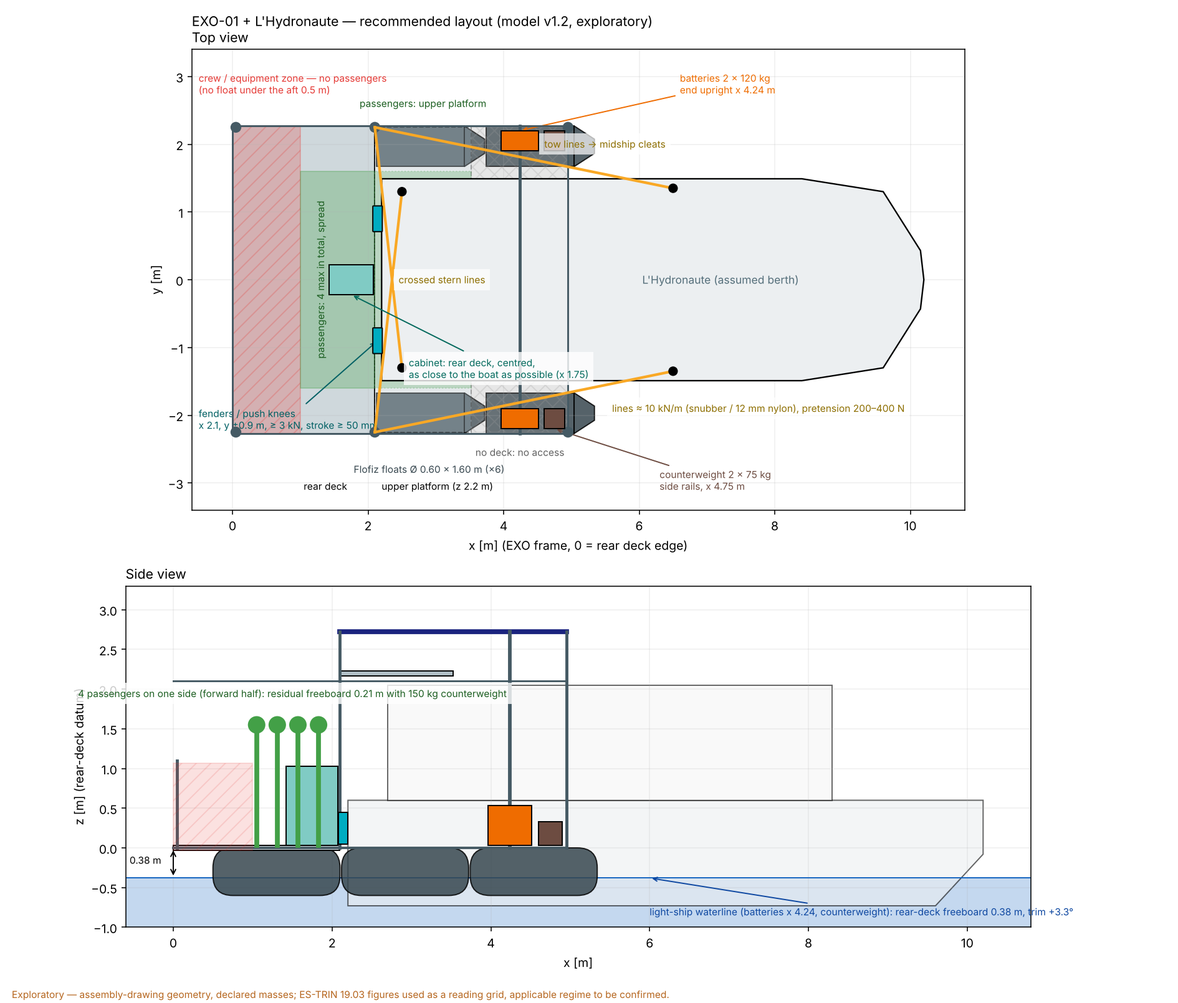
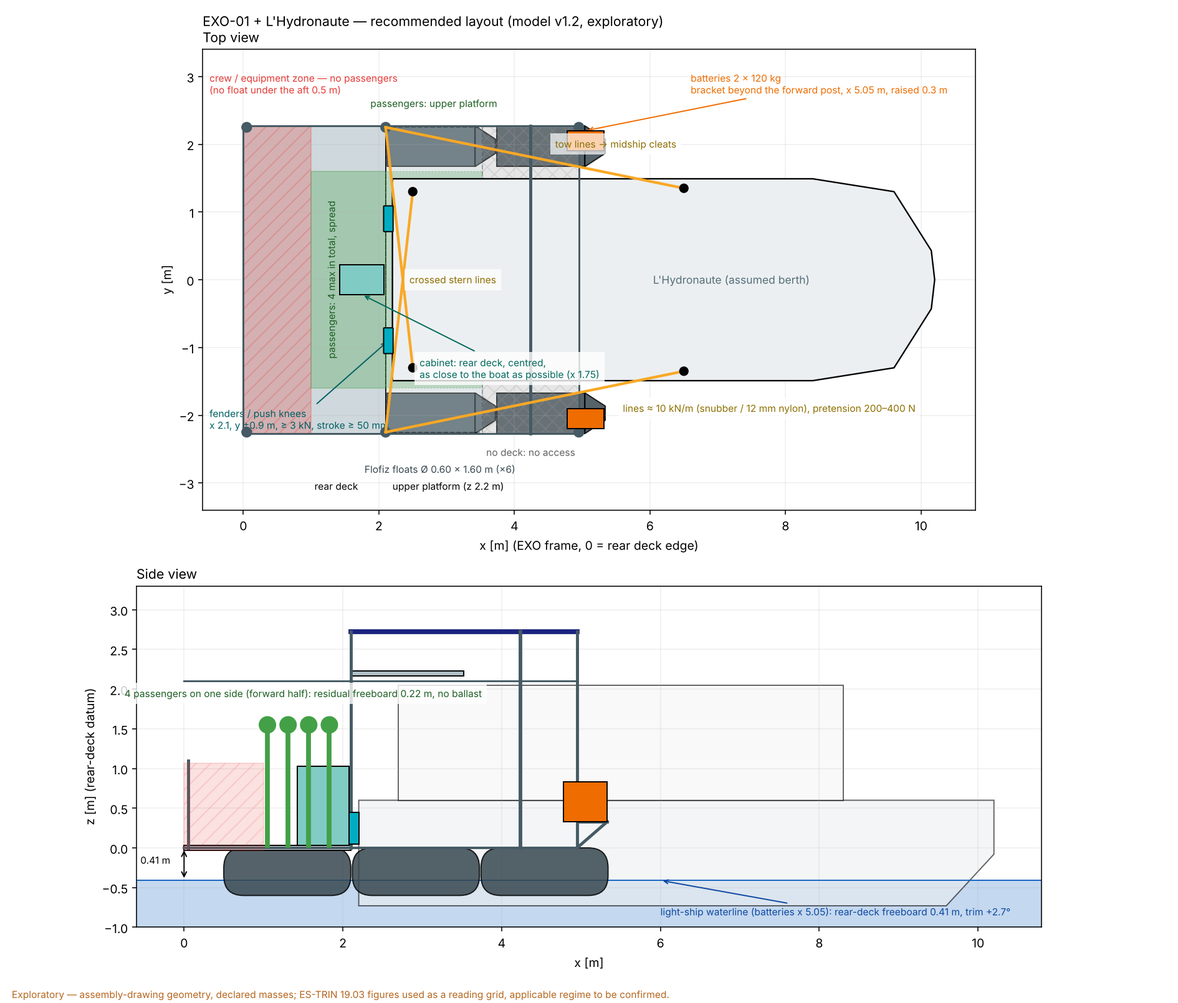
Recommended layout: batteries on a bracket beyond the forward post (x 5.05, z 0.8), no ballast; 4 passengers >= 0.219 m
Claude-Session: https://claude.ai/code/session_01Dca2tFRhLZ7fJ291hADNnP

diff --git a/docs/website/preview.html b/docs/website/preview.html
@@ -82,7 +82,7 @@ figcaption { font-size: 13px; color: var(--muted); margin-top: 8px; max-width: 6
 <h3>5. Propulsion : ordre de grandeur seulement</h3>
 <p>À 100 % des deux pods, l'ensemble EXO-01 + L'Hydronaute atteindrait ≈ 2,8 m/s (10 km/h), avec 870 N transmis au bateau par les aussières. Ces vitesses sont des <strong>bornes supérieures</strong> : le modèle suppose la poussée au point fixe constante avec la vitesse, ce qui est faux pour un propulseur à hélice ; la courbe poussée–vitesse des pods n'est pas connue.</p>
 <h2>Implantation recommandée (v1.2) : aussières, défenses, zones passagers</h2>
-<figure><img alt="Implantation recommandée" src="img/14_layout_fr.webp" loading="lazy"><figcaption>Vue de dessus et de côté : défenses de poupe, aussières croisées et de remorquage, zone équipage à l'arrière, zone passagers, armoire centrée au bord avant du pont arrière, batteries au montant d'extrémité, contrepoids. Géométrie du plan d'assemblage, position d'accostage supposée.</figcaption></figure>
+<figure><img alt="Implantation recommandée" src="img/14_layout_fr.webp" loading="lazy"><figcaption>Vue de dessus et de côté : défenses de poupe, aussières croisées et de remorquage, zone équipage à l'arrière, zone passagers, armoire centrée au bord avant du pont arrière, batteries sur console à l'avant. Géométrie du plan d'assemblage, position d'accostage supposée.</figcaption></figure>
 <p>L'étude d'amarrage (121 configurations : 6 arrangements × 4 raideurs × 5 prétensions + un cas rigide ; amarré, poussée 100 %, remorquage 100 % ; trois houles régulières, calcul linéaire puis domaine temporel) dit, dans ses hypothèses :</p>
 <ul>
 <li><strong>La poussée passe en compression.</strong> Deux défenses / push knees au bord du pont arrière (x 2,1 m, y ±0,9 m, hauteur du tableau) ferment la boucle poussée–remorquage quelle que soit la corde, avec 1–20 mm de course ; des aussières seules (diagonales) le font aussi, mais seulement à k ≥ 10 kN/m et avec 20–45 mm de glissement du bateau dans un espace de 60 mm. Charge statique par défense à pleine poussée : 0,3–0,6 kN.</li>
@@ -90,7 +90,7 @@ figcaption { font-size: 13px; color: var(--muted); margin-top: 8px; max-width: 6
 <li><strong>Raideur plutôt qu'« amortisseur » : ce que l'étude montre.</strong> Les éléments sont des ressorts sans amortissement ; les pics de reprise croissent avec la raideur de la corde (2 kN/m : 0,5–1,3 kN ; 10 kN/m : 0,6–1,5 kN ; 50 kN/m : 1,5–3 kN ; 200 kN/m : 3–5 kN dans la même houle), mais des cordes très souples laissent le bateau prendre de l'élan contre les défenses (2–5 kN). Direction : cordes ≈ 10 kN/m, défenses fermes ≈ 50 kN/m, prétension 200–400 N. Le choix d'un amortisseur réel demande un modèle avec amortissement, course et réaction maximale — étape suivante.</li>
 <li><strong>Dimensionnement indicatif</strong> : cordes 12 mm polyester/nylon avec snubbers (charge de travail 1–1,5 kN, pics 2–4,5 kN en 0,5 m de houle), taquets et montants ≥ 5 kN, défenses ≥ 3 kN avec ≥ 50 mm de course.</li>
 </ul>
-<p><strong>Zones passagers et capacité (EXO-01 seul, 75 kg par personne, lecture ES-TRIN 19.03 : gîte + vent ≤ 12°, franc-bord résiduel ≥ 0,20 m).</strong> La gîte n'est jamais limitante (8 personnes sur un bord : 4° ; vent 0,25 kN/m² sur 6 m² supposés : 0,7°). C'est le franc-bord du pont arrière qui limite : chaque passager enfonce la plateforme d'≈ 15 mm, plus l'assiette. Avec les batteries du plan, aucun passager ne satisfait le critère ; batteries avancées, 1–2 ; avec l'implantation ci-dessus — <strong>arrière du pont fermé aux passagers (pas de flotteur sous les 0,5 m arrière), batteries au montant d'extrémité, armoire sur le pont arrière, centrée et au plus près du bateau (x 1,75 m), contrepoids 2 × 75 kg à x 4,75 m sur les longerons</strong> — <strong>4 passagers</strong> n'importe où dans les zones autorisées gardent ≥ 0,214 m (6 répartis sur les deux ponts : 0,245 m) ; 150 kg de lest, c'est le poids de deux passagers : plus de flottabilité arrière ferait mieux. Contrepartie : +3,3° de piqué à vide et les flotteurs avant deviennent la limite si 4 personnes se mettent d'un même bord sur la plateforme haute (0,17 m). Sous le franc-bord minimal de 0,30 m de l'art. 19.04, aucune configuration ne dépasse 1 passager : le régime applicable (bateau à passagers, engin flottant, autre) change l'évaluation et reste à établir avec le service instructeur. Rien de tout cela ne remplace la pesée, l'essai de stabilité et le relevé des flotteurs.</p>
+<p><strong>Zones passagers et capacité (EXO-01 seul, 75 kg par personne, lecture ES-TRIN 19.03 : gîte + vent ≤ 12°, franc-bord résiduel ≥ 0,20 m).</strong> La gîte n'est jamais limitante (8 personnes sur un bord : 4° ; vent 0,25 kN/m² sur 6 m² supposés : 0,7°). C'est le franc-bord du pont arrière qui limite : chaque passager enfonce la plateforme d'≈ 15 mm, plus l'assiette. Avec les batteries du plan, aucun passager ne satisfait le critère ; batteries avancées, 1–2 ; avec l'implantation ci-dessus — <strong>arrière du pont fermé aux passagers (pas de flotteur sous les 0,5 m arrière), batteries sur une console au-delà du montant avant (x 5,05 m, surélevées de 0,3 m), armoire sur le pont arrière, centrée et au plus près du bateau (x 1,75 m), sans lest</strong> — <strong>4 passagers</strong> n'importe où dans les zones autorisées gardent ≥ 0,22 m (6 répartis sur les deux ponts : 0,24 m). Contrepartie : +2,7° de piqué à vide ; les flotteurs avant restent à ≥ 0,20 m même avec 4 personnes d'un même bord sur la plateforme haute. À vérifier sur la structure : la console porte 120 kg en porte-à-faux de chaque côté au-delà du dernier montant, dans la zone où arrivent la vague d'étrave et les embruns (coffres étanches), avec ≈ 4 m de câble 48 V jusqu'à l'armoire. Sous le franc-bord minimal de 0,30 m de l'art. 19.04, aucune configuration ne dépasse 1 passager : le régime applicable (bateau à passagers, engin flottant, autre) change l'évaluation et reste à établir avec le service instructeur. Rien de tout cela ne remplace la pesée, l'essai de stabilité et le relevé des flotteurs.</p>
 <h2>Ce que le modèle ne dit pas</h2>
 <ul>
 <li><strong>Les masses et leurs positions sont déclarées, pas pesées.</strong> Toute l'assiette repose sur le décalage de 0,6 m entre centre de masse et centre de flottabilité.</li>
@@ -156,7 +156,7 @@ figcaption { font-size: 13px; color: var(--muted); margin-top: 8px; max-width: 6
 <h3>5. Propulsion: order of magnitude only</h3>
 <p>At 100 % of both pods, EXO-01 + L'Hydronaute would reach ≈ 2.8 m/s (10 km/h), with 870 N carried to the boat through the lines. These speeds are <strong>upper bounds</strong>: the model assumes the bollard thrust stays constant with speed, which is false for a propeller; the pods' thrust–speed curve is not known.</p>
 <h2>Recommended layout (v1.2): lines, fenders, passenger zones</h2>
-<figure><img alt="Recommended layout" src="img/14_layout_en.webp" loading="lazy"><figcaption>Top and side view: stern fenders, crossed and tow lines, crew zone aft, passenger zone, cabinet centred at the forward edge of the rear deck, batteries at the end upright, counterweight. Assembly-drawing geometry, assumed berth.</figcaption></figure>
+<figure><img alt="Recommended layout" src="img/14_layout_en.webp" loading="lazy"><figcaption>Top and side view: stern fenders, crossed and tow lines, crew zone aft, passenger zone, cabinet centred at the forward edge of the rear deck, batteries on a forward bracket. Assembly-drawing geometry, assumed berth.</figcaption></figure>
 <p>The mooring study (121 configurations: 6 arrangements × 4 stiffnesses × 5 pretensions + one rigid case; moored, push 100 %, tow 100 %; three regular waves, linear then time domain) says, within its assumptions:</p>
 <ul>
 <li><strong>Push goes through compression.</strong> Two fenders / push knees at the rear-deck edge (x 2.1 m, y ±0.9 m, transom height) close the push–tow loop whatever the rope, with 1–20 mm of travel; lines alone (diagonals) do it too, but only at k ≥ 10 kN/m and with 20–45 mm of boat travel into a 60 mm gap. Static load per fender at full thrust: 0.3–0.6 kN.</li>
@@ -164,7 +164,7 @@ figcaption { font-size: 13px; color: var(--muted); margin-top: 8px; max-width: 6
 <li><strong>Compliance rather than "shock absorbers": what the study shows.</strong> The elements are undamped springs; snatch peaks grow with rope stiffness (2 kN/m: 0.5–1.3 kN; 10 kN/m: 0.6–1.5 kN; 50 kN/m: 1.5–3 kN; 200 kN/m: 3–5 kN in the same waves), but very soft lines let the boat gather speed into the fenders (2–5 kN). Direction: lines ≈ 10 kN/m, firm fenders ≈ 50 kN/m, pretension 200–400 N. Choosing an actual damper needs a model with damping, stroke and peak reaction — next step.</li>
 <li><strong>Indicative sizing</strong>: 12 mm polyester/nylon lines with snubbers (working load 1–1.5 kN, peaks 2–4.5 kN in 0.5 m waves), cleats and uprights ≥ 5 kN, fenders ≥ 3 kN with ≥ 50 mm stroke.</li>
 </ul>
-<p><strong>Passenger zones and capacity (EXO-01 alone, 75 kg per person, ES-TRIN 19.03 reading: heel + wind ≤ 12°, residual freeboard ≥ 0.20 m).</strong> Heel never limits (8 people on one side: 4°; wind 0.25 kN/m² on an assumed 6 m²: 0.7°). The rear-deck freeboard does: each passenger sinks the platform ≈ 15 mm, plus the trim. With the drawing's batteries no passenger meets the criterion; batteries forward, 1–2; with the layout above — <strong>aft of the rear deck closed to passengers (no float under the aft 0.5 m), batteries at the end upright, cabinet on the rear deck, centred and as close to the boat as possible (x 1.75 m), 2 × 75 kg counterweight at x 4.75 m on the side rails</strong> — <strong>4 passengers</strong> anywhere in the allowed zones keep ≥ 0.214 m (6 spread over both decks: 0.245 m); 150 kg of ballast is the weight of two passengers — more aft buoyancy would do better. The price: +3.3° bow-down trim light, and the forward floats become the limit if 4 people crowd one side of the upper platform (0.17 m). Under the 0.30 m minimum freeboard of art. 19.04 no configuration exceeds 1 passenger: the applicable regime (passenger vessel, floating equipment, other) changes the assessment and has to be established with the service instructeur. None of this replaces the weighing, the inclining test and the float survey.</p>
+<p><strong>Passenger zones and capacity (EXO-01 alone, 75 kg per person, ES-TRIN 19.03 reading: heel + wind ≤ 12°, residual freeboard ≥ 0.20 m).</strong> Heel never limits (8 people on one side: 4°; wind 0.25 kN/m² on an assumed 6 m²: 0.7°). The rear-deck freeboard does: each passenger sinks the platform ≈ 15 mm, plus the trim. With the drawing's batteries no passenger meets the criterion; batteries forward, 1–2; with the layout above — <strong>aft of the rear deck closed to passengers (no float under the aft 0.5 m), batteries on a bracket beyond the forward post (x 5.05 m, raised 0.3 m), cabinet on the rear deck, centred and as close to the boat as possible (x 1.75 m), no ballast</strong> — <strong>4 passengers</strong> anywhere in the allowed zones keep ≥ 0.22 m (6 spread over both decks: 0.24 m). The price: +2.7° bow-down trim light; the forward floats stay ≥ 0.20 m even with 4 people on one side of the upper platform. To check on the structure: the bracket carries 120 kg cantilevered each side beyond the last upright, where the bow wave and spray arrive first (watertight boxes), with ≈ 4 m of 48 V cable to the cabinet. Under the 0.30 m minimum freeboard of art. 19.04 no configuration exceeds 1 passenger: the applicable regime (passenger vessel, floating equipment, other) changes the assessment and has to be established with the service instructeur. None of this replaces the weighing, the inclining test and the float survey.</p>
 <h2>What the model does not say</h2>
 <ul>
 <li><strong>Masses and positions are declared, not weighed.</strong> The whole trim story rests on the 0.6 m offset between centre of mass and centre of buoyancy.</li>

diff --git a/scripts/draw_layout.py b/scripts/draw_layout.py
@@ -18,16 +18,16 @@ OUT = ROOT / "docs" / "website" / "img"
 T = {
     "fr": dict(title="EXO-01 + L'Hydronaute — implantation recommandée (modèle v1.2, exploratoire)", top="Vue de dessus", side="Vue de côté",
                deck="pont arrière", upper="plateforme haute (z 2,2 m)", nodeck="pas de pont : accès interdit", crew="zone équipage / matériel — pas de passagers\n(pas de flotteur sous les 0,5 m arrière)",
-               pax_rear="passagers : 4 max au total, répartis", pax_upper="passagers : plateforme haute", batt="batteries 2 × 120 kg\nmontant d'extrémité x 4,24 m", cw="contrepoids 2 × 75 kg\nlongerons, x 4,75 m",
+               pax_rear="passagers : 4 max au total, répartis", pax_upper="passagers : plateforme haute", batt="batteries 2 × 120 kg\nconsole au-delà du montant avant, x 5,05 m, +0,3 m", cw="",
                cab="armoire : pont arrière, centrée,\nau plus près du bateau (x 1,75)", fender="défenses / push knees\nx 2,1, y ±0,9 m, ≥ 3 kN, course ≥ 50 mm", cross="aussières croisées (poupe)", tow="aussières de remorquage → taquets milieu",
                lines="cordes ≈ 10 kN/m (snubber / nylon 12 mm), prétension 200–400 N", boat="L'Hydronaute (position d'accostage supposée)", floats="flotteurs Flofiz Ø 0,60 × 1,60 m (×6)",
-               wl="flottaison à vide (batteries x 4,24, contrepoids) : franc-bord pont arrière 0,38 m, assiette +3,3°", pax4="4 passagers sur un bord (moitié avant) : franc-bord résiduel 0,21 m avec contrepoids 150 kg", note="Exploratoire — géométrie du plan d'assemblage, masses déclarées ; critères ES-TRIN 19.03 utilisés en lecture, régime applicable à confirmer."),
+               wl="flottaison à vide (batteries x 5,05) : franc-bord pont arrière 0,41 m, assiette +2,7°", pax4="4 passagers sur un bord (moitié avant) : franc-bord résiduel 0,22 m, sans lest", note="Exploratoire — géométrie du plan d'assemblage, masses déclarées ; critères ES-TRIN 19.03 utilisés en lecture, régime applicable à confirmer."),
     "en": dict(title="EXO-01 + L'Hydronaute — recommended layout (model v1.2, exploratory)", top="Top view", side="Side view",
                deck="rear deck", upper="upper platform (z 2.2 m)", nodeck="no deck: no access", crew="crew / equipment zone — no passengers\n(no float under the aft 0.5 m)",
-               pax_rear="passengers: 4 max in total, spread", pax_upper="passengers: upper platform", batt="batteries 2 × 120 kg\nend upright x 4.24 m", cw="counterweight 2 × 75 kg\nside rails, x 4.75 m",
+               pax_rear="passengers: 4 max in total, spread", pax_upper="passengers: upper platform", batt="batteries 2 × 120 kg\nbracket beyond the forward post, x 5.05 m, raised 0.3 m", cw="",
                cab="cabinet: rear deck, centred,\nas close to the boat as possible (x 1.75)", fender="fenders / push knees\nx 2.1, y ±0.9 m, ≥ 3 kN, stroke ≥ 50 mm", cross="crossed stern lines", tow="tow lines → midship cleats",
                lines="lines ≈ 10 kN/m (snubber / 12 mm nylon), pretension 200–400 N", boat="L'Hydronaute (assumed berth)", floats="Flofiz floats Ø 0.60 × 1.60 m (×6)",
-               wl="light-ship waterline (batteries x 4.24, counterweight): rear-deck freeboard 0.38 m, trim +3.3°", pax4="4 passengers on one side (forward half): residual freeboard 0.21 m with 150 kg counterweight", note="Exploratory — assembly-drawing geometry, declared masses; ES-TRIN 19.03 figures used as a reading grid, applicable regime to be confirmed."),
+               wl="light-ship waterline (batteries x 5.05): rear-deck freeboard 0.41 m, trim +2.7°", pax4="4 passengers on one side (forward half): residual freeboard 0.22 m, no ballast", note="Exploratory — assembly-drawing geometry, declared masses; ES-TRIN 19.03 figures used as a reading grid, applicable regime to be confirmed."),
 }
 BX = 2.2          # boat stern in the EXO frame
 C = dict(deck="#cfd8dc", upper="#b0bec5", float="#37474f", boat="#eceff1", pax="#43a047", crew="#e53935", nodeck="#9e9e9e", batt="#ef6c00", cw="#6d4c41", fender="#00acc1", line="#f9a825", frame="#455a64")
@@ -71,10 +71,8 @@ for lang, t in T.items():
     ax.plot([4.24, 4.24], [-2.2735, 2.2735], color=C["frame"], lw=2.5, zorder=4)
     # batteries, cabinet, counterweight
     for y in (-2.05, 2.05):
-        ax.add_patch(Rectangle((4.24 - 0.275, y - 0.15), 0.55, 0.30, facecolor=C["batt"], edgecolor="k", zorder=6))
-        ax.add_patch(Rectangle((4.75 - 0.15, y - 0.15), 0.30, 0.30, facecolor=C["cw"], edgecolor="k", zorder=6))
-    ax.annotate(t["batt"], (4.24, 2.2), (6.6, 2.75), fontsize=8, color=C["batt"], arrowprops=dict(arrowstyle="->", color=C["batt"]))
-    ax.annotate(t["cw"], (4.75, -2.2), (6.3, -3.1), fontsize=8, color=C["cw"], arrowprops=dict(arrowstyle="->", color=C["cw"]))
+        ax.add_patch(Rectangle((5.05 - 0.275, y - 0.15), 0.55, 0.30, facecolor=C["batt"], edgecolor="k", zorder=6))
+    ax.annotate(t["batt"], (5.05, 2.2), (6.6, 2.75), fontsize=8, color=C["batt"], arrowprops=dict(arrowstyle="->", color=C["batt"]))
     ax.add_patch(Rectangle((1.75 - 0.325, -0.225), 0.65, 0.45, facecolor="#80cbc4", edgecolor="k", zorder=6))
     ax.annotate(t["cab"], (1.75, -0.22), (2.6, -1.45), fontsize=8, color="#00695c", arrowprops=dict(arrowstyle="->", color="#00695c"), bbox=dict(fc="white", ec="none", alpha=0.8), zorder=9)
     # fenders
@@ -94,7 +92,7 @@ for lang, t in T.items():
     ax.set_xlabel("x [m] (EXO frame, 0 = rear deck edge)"); ax.set_ylabel("y [m]"); ax.grid(alpha=.2)
     # ---------------- side view
     ax2.set_aspect("equal"); ax2.set_xlim(-0.6, 10.8); ax2.set_ylim(-1.0, 3.3)
-    wl = -0.38 + 0.0                      # rear-deck datum 0.38 m above water at light ship (batteries x 4.24): draw the waterline at z = -0.38
+    wl = -0.41 + 0.0                      # rear-deck datum 0.38 m above water at light ship (batteries x 4.24): draw the waterline at z = -0.38
     ax2.axhspan(-1.0, wl, color="#1565c0", alpha=0.25, zorder=0); ax2.axhline(wl, color="#1565c0", lw=1)
     for s in cfg["buoyant_surfaces"]:
         if s["y_m"] < 0:
@@ -114,8 +112,8 @@ for lang, t in T.items():
     ax2.add_patch(Rectangle((BX + 0.5, bz + 0.78), 5.6, 1.45, facecolor="#f5f5f5", edgecolor="k", alpha=0.6, zorder=1))
     # fenders at the transom, batteries, counterweight, cabinet, passengers (4 on the forward half) and crew zone
     ax2.add_patch(Rectangle((2.08, 0.05), 0.12, 0.4, facecolor=C["fender"], edgecolor="k", zorder=5))
-    ax2.add_patch(Rectangle((4.24 - 0.275, 0.03), 0.55, 0.5, facecolor=C["batt"], edgecolor="k", zorder=5))
-    ax2.add_patch(Rectangle((4.75 - 0.15, 0.03), 0.30, 0.3, facecolor=C["cw"], edgecolor="k", zorder=5))
+    ax2.add_patch(Rectangle((5.05 - 0.275, 0.33), 0.55, 0.5, facecolor=C["batt"], edgecolor="k", zorder=5))
+    ax2.plot([4.95, 5.33], [0.0, 0.33], color=C["frame"], lw=2.5, zorder=4); ax2.plot([4.95, 5.33], [0.33, 0.33], color=C["frame"], lw=2.5, zorder=4)   # bracket
     ax2.add_patch(Rectangle((1.75 - 0.325, 0.03), 0.65, 1.0, facecolor="#80cbc4", edgecolor="k", zorder=5))
     for i in range(4):
         x = 1.05 + 0.26 * i
@@ -123,7 +121,7 @@ for lang, t in T.items():
     ax2.add_patch(Rectangle((0, -0.03), 1.0, 1.1, facecolor=C["crew"], alpha=0.15, hatch="//", edgecolor=C["crew"], zorder=4))
     ax2.annotate(t["wl"], (6.0, wl), (6.0, -0.85), fontsize=8, color="#0d47a1", arrowprops=dict(arrowstyle="->", color="#0d47a1"))
     ax2.text(1.5, 1.9, t["pax4"], fontsize=8, color="#1b5e20", ha="center", bbox=dict(fc="white", ec="none", alpha=0.8), zorder=9)
-    ax2.annotate("", (0.0, 0.0), (0.0, wl), arrowprops=dict(arrowstyle="<->", color="k")); ax2.text(-0.55, -0.2, "0.38 m", fontsize=8)
+    ax2.annotate("", (0.0, 0.0), (0.0, wl), arrowprops=dict(arrowstyle="<->", color="k")); ax2.text(-0.55, -0.2, "0.41 m", fontsize=8)
     ax2.set_title(t["side"], fontsize=11, loc="left"); ax2.set_xlabel("x [m]"); ax2.set_ylabel("z [m] (rear-deck datum)"); ax2.grid(alpha=.2)
     fig.text(0.01, 0.005, t["note"], fontsize=8, color="#b5651d")
     fig.tight_layout(rect=(0, 0.02, 1, 1))

diff --git a/docs/website/exo01-simulation.fr.md b/docs/website/exo01-simulation.fr.md
@@ -75,7 +75,7 @@ Avec 100 N de prétension, **toutes les aussières se détendent à chaque cycle
 ## Implantation recommandée (v1.2) : aussières, défenses, zones passagers
 
 ![Implantation recommandée](img/web/14_layout_fr.webp)
-*Vue de dessus et de côté : défenses de poupe, aussières croisées et de remorquage, zone équipage à l'arrière, zone passagers, armoire centrée au bord avant du pont arrière, batteries au montant d'extrémité, contrepoids. Géométrie du plan d'assemblage, position d'accostage supposée.*
+*Vue de dessus et de côté : défenses de poupe, aussières croisées et de remorquage, zone équipage à l'arrière, zone passagers, armoire centrée au bord avant du pont arrière, batteries sur console à l'avant. Géométrie du plan d'assemblage, position d'accostage supposée.*
 
 L'étude d'amarrage (121 configurations : 6 arrangements × 4 raideurs × 5 prétensions + un cas rigide ; amarré, poussée 100 %, remorquage 100 % ; trois houles régulières, calcul linéaire puis domaine temporel) dit, dans ses hypothèses :
 
@@ -84,7 +84,7 @@ L'étude d'amarrage (121 configurations : 6 arrangements × 4 raideurs × 5 pré
 - **Raideur plutôt qu'« amortisseur » : ce que l'étude montre.** Les éléments sont des ressorts sans amortissement ; les pics de reprise croissent avec la raideur de la corde (2 kN/m : 0,5–1,3 kN ; 10 kN/m : 0,6–1,5 kN ; 50 kN/m : 1,5–3 kN ; 200 kN/m : 3–5 kN dans la même houle), mais des cordes très souples laissent le bateau prendre de l'élan contre les défenses (2–5 kN). Direction : cordes ≈ 10 kN/m, défenses fermes ≈ 50 kN/m, prétension 200–400 N. Le choix d'un amortisseur réel demande un modèle avec amortissement, course et réaction maximale — étape suivante.
 - **Dimensionnement indicatif** : cordes 12 mm polyester/nylon avec snubbers (charge de travail 1–1,5 kN, pics 2–4,5 kN en 0,5 m de houle), taquets et montants ≥ 5 kN, défenses ≥ 3 kN avec ≥ 50 mm de course.
 
-**Zones passagers et capacité (EXO-01 seul, 75 kg par personne, lecture ES-TRIN 19.03 : gîte + vent ≤ 12°, franc-bord résiduel ≥ 0,20 m).** La gîte n'est jamais limitante (8 personnes sur un bord : 4° ; vent 0,25 kN/m² sur 6 m² supposés : 0,7°). C'est le franc-bord du pont arrière qui limite : chaque passager enfonce la plateforme d'≈ 15 mm, plus l'assiette. Avec les batteries du plan, aucun passager ne satisfait le critère ; batteries avancées, 1–2 ; avec l'implantation ci-dessus — **arrière du pont fermé aux passagers (pas de flotteur sous les 0,5 m arrière), batteries au montant d'extrémité, armoire sur le pont arrière, centrée et au plus près du bateau (x 1,75 m), contrepoids 2 × 75 kg à x 4,75 m sur les longerons** — **4 passagers** n'importe où dans les zones autorisées gardent ≥ 0,214 m (6 répartis sur les deux ponts : 0,245 m) ; 150 kg de lest, c'est le poids de deux passagers : plus de flottabilité arrière ferait mieux. Contrepartie : +3,3° de piqué à vide et les flotteurs avant deviennent la limite si 4 personnes se mettent d'un même bord sur la plateforme haute (0,17 m). Sous le franc-bord minimal de 0,30 m de l'art. 19.04, aucune configuration ne dépasse 1 passager : le régime applicable (bateau à passagers, engin flottant, autre) change l'évaluation et reste à établir avec le service instructeur. Rien de tout cela ne remplace la pesée, l'essai de stabilité et le relevé des flotteurs.
+**Zones passagers et capacité (EXO-01 seul, 75 kg par personne, lecture ES-TRIN 19.03 : gîte + vent ≤ 12°, franc-bord résiduel ≥ 0,20 m).** La gîte n'est jamais limitante (8 personnes sur un bord : 4° ; vent 0,25 kN/m² sur 6 m² supposés : 0,7°). C'est le franc-bord du pont arrière qui limite : chaque passager enfonce la plateforme d'≈ 15 mm, plus l'assiette. Avec les batteries du plan, aucun passager ne satisfait le critère ; batteries avancées, 1–2 ; avec l'implantation ci-dessus — **arrière du pont fermé aux passagers (pas de flotteur sous les 0,5 m arrière), batteries sur une console au-delà du montant avant (x 5,05 m, surélevées de 0,3 m), armoire sur le pont arrière, centrée et au plus près du bateau (x 1,75 m), sans lest** — **4 passagers** n'importe où dans les zones autorisées gardent ≥ 0,22 m (6 répartis sur les deux ponts : 0,24 m). Contrepartie : +2,7° de piqué à vide ; les flotteurs avant restent à ≥ 0,20 m même avec 4 personnes d'un même bord sur la plateforme haute. À vérifier sur la structure : la console porte 120 kg en porte-à-faux de chaque côté au-delà du dernier montant, dans la zone où arrivent la vague d'étrave et les embruns (coffres étanches), avec ≈ 4 m de câble 48 V jusqu'à l'armoire. Sous le franc-bord minimal de 0,30 m de l'art. 19.04, aucune configuration ne dépasse 1 passager : le régime applicable (bateau à passagers, engin flottant, autre) change l'évaluation et reste à établir avec le service instructeur. Rien de tout cela ne remplace la pesée, l'essai de stabilité et le relevé des flotteurs.
 
 ## Ce que le modèle ne dit pas
 

diff --git a/docs/website/exo01-simulation.en.md b/docs/website/exo01-simulation.en.md
@@ -75,7 +75,7 @@ At 100 % of both pods, EXO-01 + L'Hydronaute would reach ≈ 2.8 m/s (10 km/h), 
 ## Recommended layout (v1.2): lines, fenders, passenger zones
 
 ![Recommended layout](img/web/14_layout_en.webp)
-*Top and side view: stern fenders, crossed and tow lines, crew zone aft, passenger zone, cabinet centred at the forward edge of the rear deck, batteries at the end upright, counterweight. Assembly-drawing geometry, assumed berth.*
+*Top and side view: stern fenders, crossed and tow lines, crew zone aft, passenger zone, cabinet centred at the forward edge of the rear deck, batteries on a forward bracket. Assembly-drawing geometry, assumed berth.*
 
 The mooring study (121 configurations: 6 arrangements × 4 stiffnesses × 5 pretensions + one rigid case; moored, push 100 %, tow 100 %; three regular waves, linear then time domain) says, within its assumptions:
 
@@ -84,7 +84,7 @@ The mooring study (121 configurations: 6 arrangements × 4 stiffnesses × 5 pret
 - **Compliance rather than "shock absorbers": what the study shows.** The elements are undamped springs; snatch peaks grow with rope stiffness (2 kN/m: 0.5–1.3 kN; 10 kN/m: 0.6–1.5 kN; 50 kN/m: 1.5–3 kN; 200 kN/m: 3–5 kN in the same waves), but very soft lines let the boat gather speed into the fenders (2–5 kN). Direction: lines ≈ 10 kN/m, firm fenders ≈ 50 kN/m, pretension 200–400 N. Choosing an actual damper needs a model with damping, stroke and peak reaction — next step.
 - **Indicative sizing**: 12 mm polyester/nylon lines with snubbers (working load 1–1.5 kN, peaks 2–4.5 kN in 0.5 m waves), cleats and uprights ≥ 5 kN, fenders ≥ 3 kN with ≥ 50 mm stroke.
 
-**Passenger zones and capacity (EXO-01 alone, 75 kg per person, ES-TRIN 19.03 reading: heel + wind ≤ 12°, residual freeboard ≥ 0.20 m).** Heel never limits (8 people on one side: 4°; wind 0.25 kN/m² on an assumed 6 m²: 0.7°). The rear-deck freeboard does: each passenger sinks the platform ≈ 15 mm, plus the trim. With the drawing's batteries no passenger meets the criterion; batteries forward, 1–2; with the layout above — **aft of the rear deck closed to passengers (no float under the aft 0.5 m), batteries at the end upright, cabinet on the rear deck, centred and as close to the boat as possible (x 1.75 m), 2 × 75 kg counterweight at x 4.75 m on the side rails** — **4 passengers** anywhere in the allowed zones keep ≥ 0.214 m (6 spread over both decks: 0.245 m); 150 kg of ballast is the weight of two passengers — more aft buoyancy would do better. The price: +3.3° bow-down trim light, and the forward floats become the limit if 4 people crowd one side of the upper platform (0.17 m). Under the 0.30 m minimum freeboard of art. 19.04 no configuration exceeds 1 passenger: the applicable regime (passenger vessel, floating equipment, other) changes the assessment and has to be established with the service instructeur. None of this replaces the weighing, the inclining test and the float survey.
+**Passenger zones and capacity (EXO-01 alone, 75 kg per person, ES-TRIN 19.03 reading: heel + wind ≤ 12°, residual freeboard ≥ 0.20 m).** Heel never limits (8 people on one side: 4°; wind 0.25 kN/m² on an assumed 6 m²: 0.7°). The rear-deck freeboard does: each passenger sinks the platform ≈ 15 mm, plus the trim. With the drawing's batteries no passenger meets the criterion; batteries forward, 1–2; with the layout above — **aft of the rear deck closed to passengers (no float under the aft 0.5 m), batteries on a bracket beyond the forward post (x 5.05 m, raised 0.3 m), cabinet on the rear deck, centred and as close to the boat as possible (x 1.75 m), no ballast** — **4 passengers** anywhere in the allowed zones keep ≥ 0.22 m (6 spread over both decks: 0.24 m). The price: +2.7° bow-down trim light; the forward floats stay ≥ 0.20 m even with 4 people on one side of the upper platform. To check on the structure: the bracket carries 120 kg cantilevered each side beyond the last upright, where the bow wave and spray arrive first (watertight boxes), with ≈ 4 m of 48 V cable to the cabinet. Under the 0.30 m minimum freeboard of art. 19.04 no configuration exceeds 1 passenger: the applicable regime (passenger vessel, floating equipment, other) changes the assessment and has to be established with the service instructeur. None of this replaces the weighing, the inclining test and the float survey.
 
 ## What the model does not say
 

diff --git a/docs/MOORING.md b/docs/MOORING.md
@@ -116,12 +116,13 @@ service instructeur, and it changes the assessment — the tables give the input
 * Capacity under "residual freeboard ≥ 0.20 m at the worst placement": **0 passengers** with the drawing's batteries,
   **1–2** with the batteries forward (limited by two people in the stern corner), 10 if everyone stays on the upper deck.
   Under the 0.30 m minimum freeboard of 19.04: 0–1 passenger in every configuration.
-* **Zoning + counterweight (recommended layout, `results/stability/recommended_layout_cases.json`)**: aft 1.0 m of the rear deck
-  closed to passengers (no float under the aft 0.5 m), batteries at the end frame (x 4.24), cabinet on the rear deck centred at its
-  forward edge (x 1.75, y 0 — it cannot go elsewhere), 2 × 75 kg counterweight at x 4.75 on the side rails → **4 passengers anywhere in
-  the allowed zones keep ≥ 0.214 m** (4 on one side of the forward half: 0.214 m; 6 spread over both decks: 0.245 m; 100 kg of
-  counterweight gives 0.197 m, just short); light ship then trims +3.3° bow-down with 0.29 m forward float-top freeboard, and 4 people on one side of the upper deck bring the forward float tops to 0.17 m — the forward floats become the
-  limit. A counterweight does not add freeboard (it sinks the platform ≈ 15 mm per 100 kg); it works through the trim lever.
+* **Zoning + batteries forward (recommended layout, `results/stability/recommended_layout_cases.json`)**: aft 1.0 m of the rear deck
+  closed to passengers (no float under the aft 0.5 m), batteries 2 × 120 kg on a bracket beyond the forward post (x 5.05, raised
+  0.3 m — height changes nothing measurable: 1 mm of freeboard, 0.2 m of GM on 21), cabinet on the rear deck centred at its forward
+  edge (x 1.75, y 0), no ballast → **4 passengers anywhere in the allowed zones keep ≥ 0.219 m** (6 spread over both decks: 0.241 m);
+  light ship trims +2.7° bow-down with 0.33 m forward float-top freeboard, ≥ 0.20 m with 4 people on one side of the upper deck.
+  Alternatives examined: batteries at the end upright (x 4.24) need 150 kg of ballast at x 4.75 for the same capacity; four batteries
+  (480 kg) reach it too but at +4.6° light and 0.11 m forward float freeboard in the worst upper-deck case. A counterweight does not add freeboard (it sinks the platform ≈ 15 mm per 100 kg); it works through the trim lever.
 * Deck-edge-awash regular wave height, light ship (no crew), batteries forward: ≈ 0.27 m at T 2.0 s, 0.46 m at T 2.5 s, 0.68 m at
   T 3 s (linear, 5 % damping, worst heading, BEM of a nearby pose reused — the short-period values are resonance-driven and need
   the decay test and an exact-pose BEM before being quoted).
